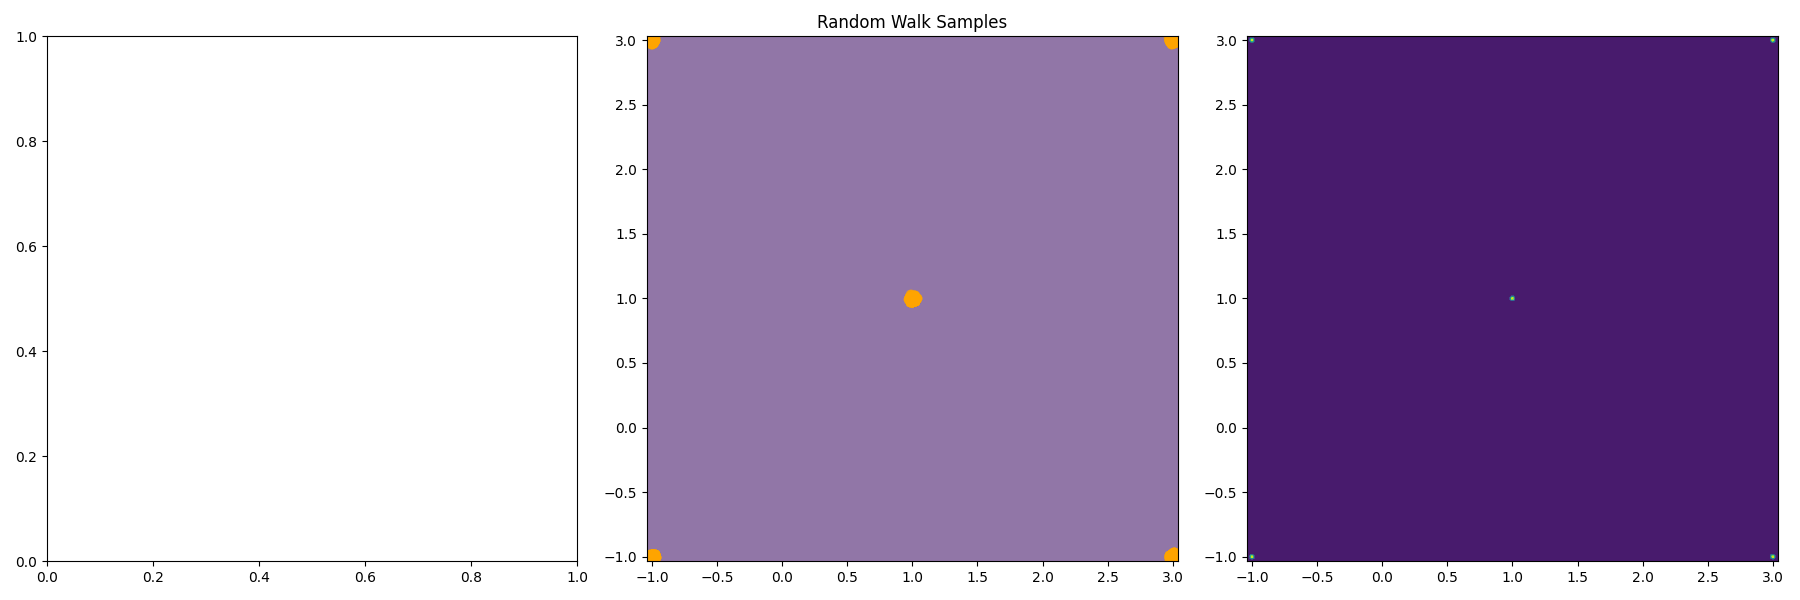
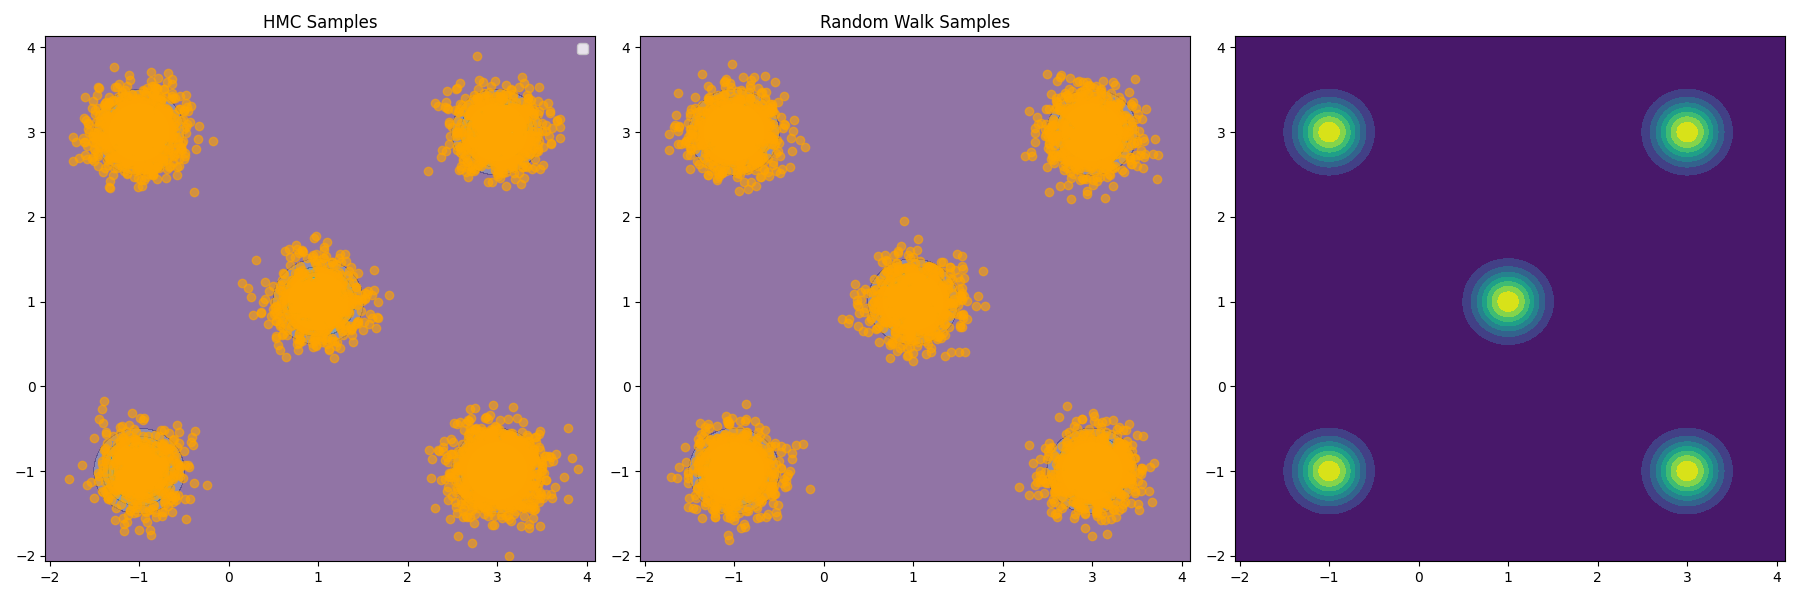
update

diff --git a/examples/gaussian_mixture.py b/examples/gaussian_mixture.py
@@ -18,12 +18,12 @@ means = jnp.vstack(
     ],
 )
 
-potential = GaussianMixturePotential(means=means, sigma=0.01)
+potential = GaussianMixturePotential(means=means, sigma=0.25)
 run(
     potential,
     dim=real_dim + fictious_dim,
     chain_length=100_000,
-    include_hmc=False,
+    include_hmc=True,
 )
 
 plt.savefig("examples/gaussian_mixture_samples.png")
